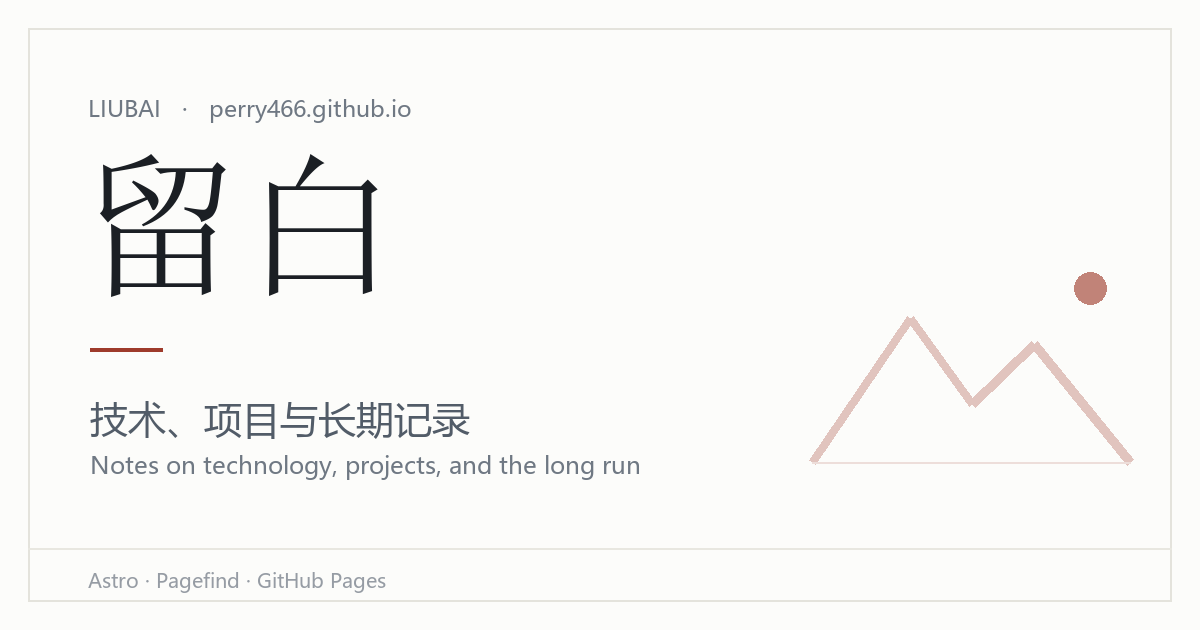
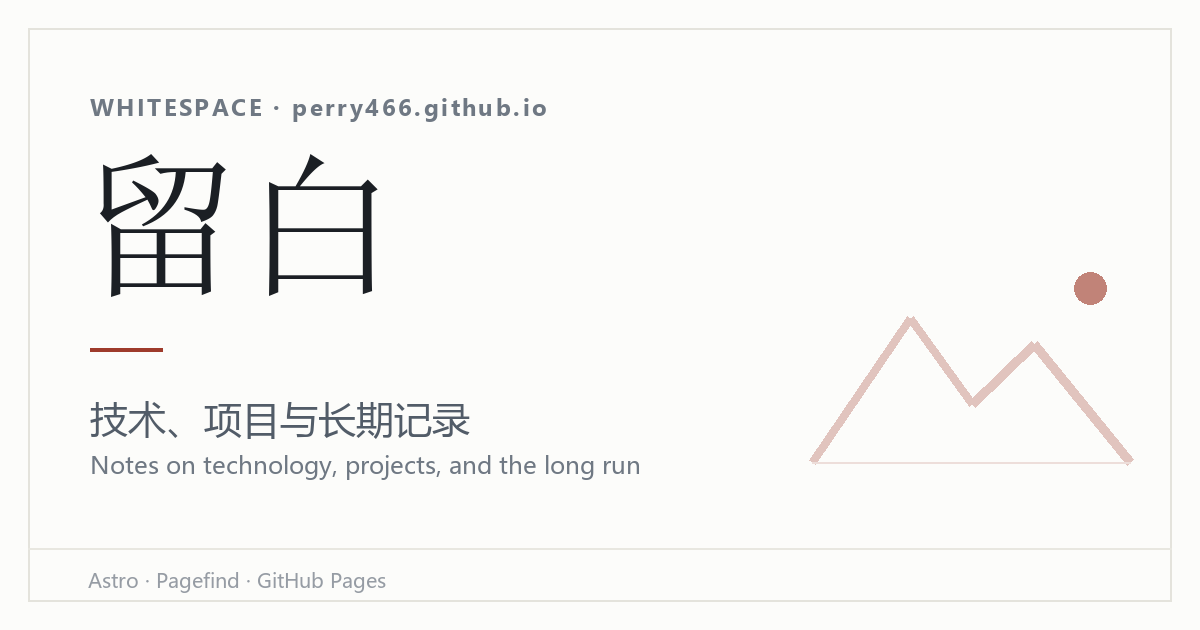
fix: 站点英文名改为 Whitespace，修正英文页面标题里的中文站名
- site.config.ts: nameEn 由拼音 Liubai 改为 Whitespace（中文名仍是「留白」）
- package.json: name 改为 whitespace
- localStorage 前缀改为 whitespace:，读取时兼容旧的 liubai:，老偏好不丢
- seo.ts: pageTitle 增加 locale 参数，英文标题用半角竖线 + 英文站名，
  修掉 "Archive｜留白" 这类中英混拼（首页/文章/分类/标签/归档/关于/404 全站生效）
- og-default.png: 分享图左上角的 LIUBAI 替换为 WHITESPACE，其余版式不变

Changed region(s): [[0.0617, 0.1508, 0.4625, 0.2111]]

diff --git a/src/scripts/ui.ts b/src/scripts/ui.ts
@@ -3,8 +3,14 @@ import type { Locale } from "./i18n-client";
 
 const html = document.documentElement;
 
-const THEME_KEY = "liubai:theme";
-const LOCALE_KEY = "liubai:locale";
+const THEME_KEY = "whitespace:theme";
+const LOCALE_KEY = "whitespace:locale";
+/** 旧版本用 liubai: 前缀，只读兼容，写入一律走新 key */
+const LEGACY_THEME_KEY = "liubai:theme";
+
+function readStored(key: string, legacy: string): string | null {
+  return localStorage.getItem(key) ?? localStorage.getItem(legacy);
+}
 
 type Mode = "light" | "dark" | "system";
 
@@ -38,7 +44,7 @@ function syncThemeButtons(): void {
 }
 
 function initTheme(): void {
-  if (!localStorage.getItem(THEME_KEY)) html.dataset.mode = "system";
+  if (!readStored(THEME_KEY, LEGACY_THEME_KEY)) html.dataset.mode = "system";
   const mq = window.matchMedia("(prefers-color-scheme: dark)");
   const onChange = (): void => {
     if ((html.dataset.mode as Mode) === "system") html.dataset.theme = systemTheme();

diff --git a/src/utils/seo.ts b/src/utils/seo.ts
@@ -19,12 +19,22 @@ export interface PageTitleOptions {
   title?: string;
   /** 是否追加站点名 */
   withSiteName?: boolean;
+  /** 输出语言：决定站点名与分隔符（英文界面用 Whitespace 和半角竖线） */
+  locale?: "zh" | "en";
 }
 
-export function pageTitle({ title, withSiteName = true }: PageTitleOptions = {}): string {
-  if (!title) return `${site.name}｜${site.description}`;
+export function pageTitle({
+  title,
+  withSiteName = true,
+  locale = "zh",
+}: PageTitleOptions = {}): string {
+  const name = locale === "en" ? site.nameEn : site.name;
+  const sep = locale === "en" ? " | " : "｜";
+  if (!title) {
+    return `${name}${sep}${locale === "en" ? site.descriptionEn : site.description}`;
+  }
   if (!withSiteName) return title;
-  return `${title}｜${site.name}`;
+  return `${title}${sep}${name}`;
 }
 
 /** 默认分享图（1200×630），没有封面时使用 */

diff --git a/src/site.config.ts b/src/site.config.ts
@@ -28,7 +28,7 @@ export interface CategoryItem {
 export const site = {
   /** 站点名：中文用于标题与页头，英文用于双语切换 */
   name: "留白",
-  nameEn: "Liubai",
+  nameEn: "Whitespace",
   /** 站点定位，用于首页 title 与 SEO */
   description: "技术、项目与长期记录",
   descriptionEn: "Notes on technology, projects, and the long run",

diff --git a/README.md b/README.md
@@ -1,4 +1,4 @@
-# 留白
+# 留白 (Whitespace)
 
 个人静态博客。Astro 静态生成，内容写在 Markdown 里，push 到 `main` 即发布。
 
